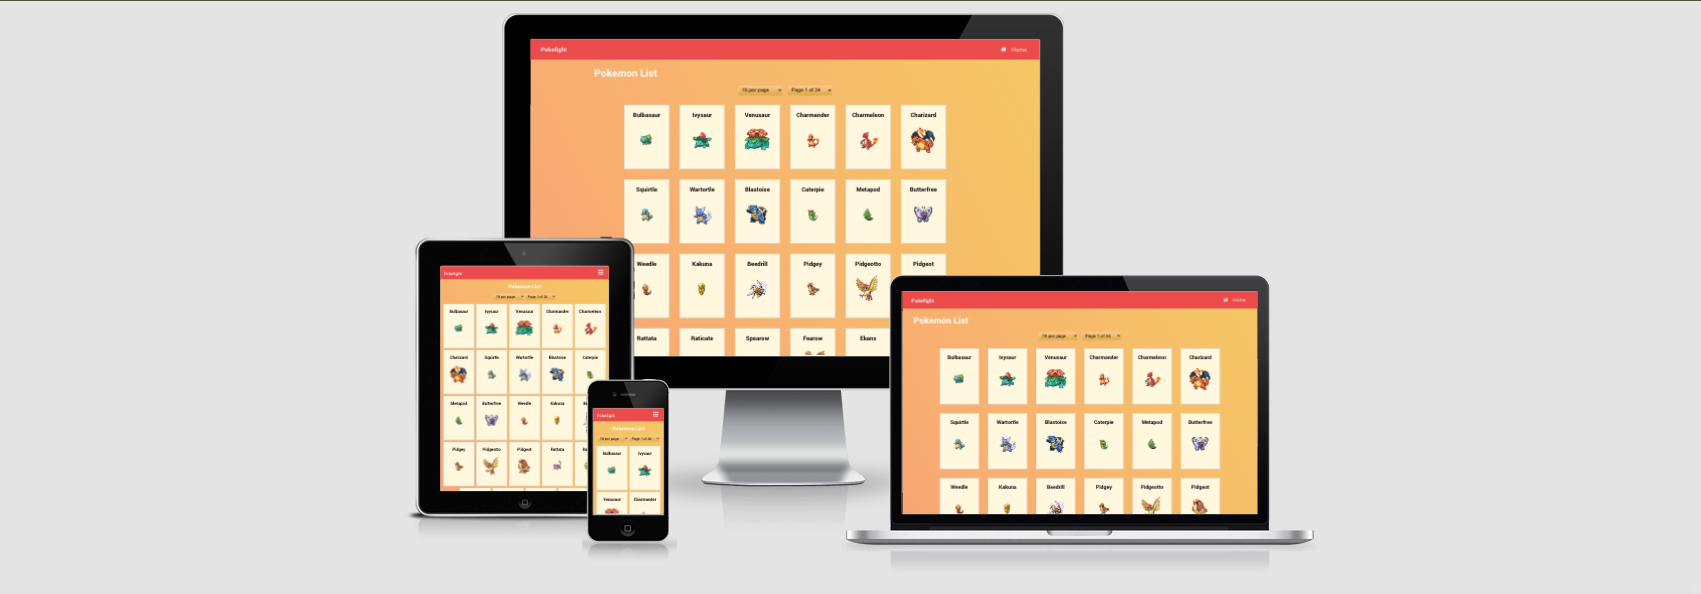
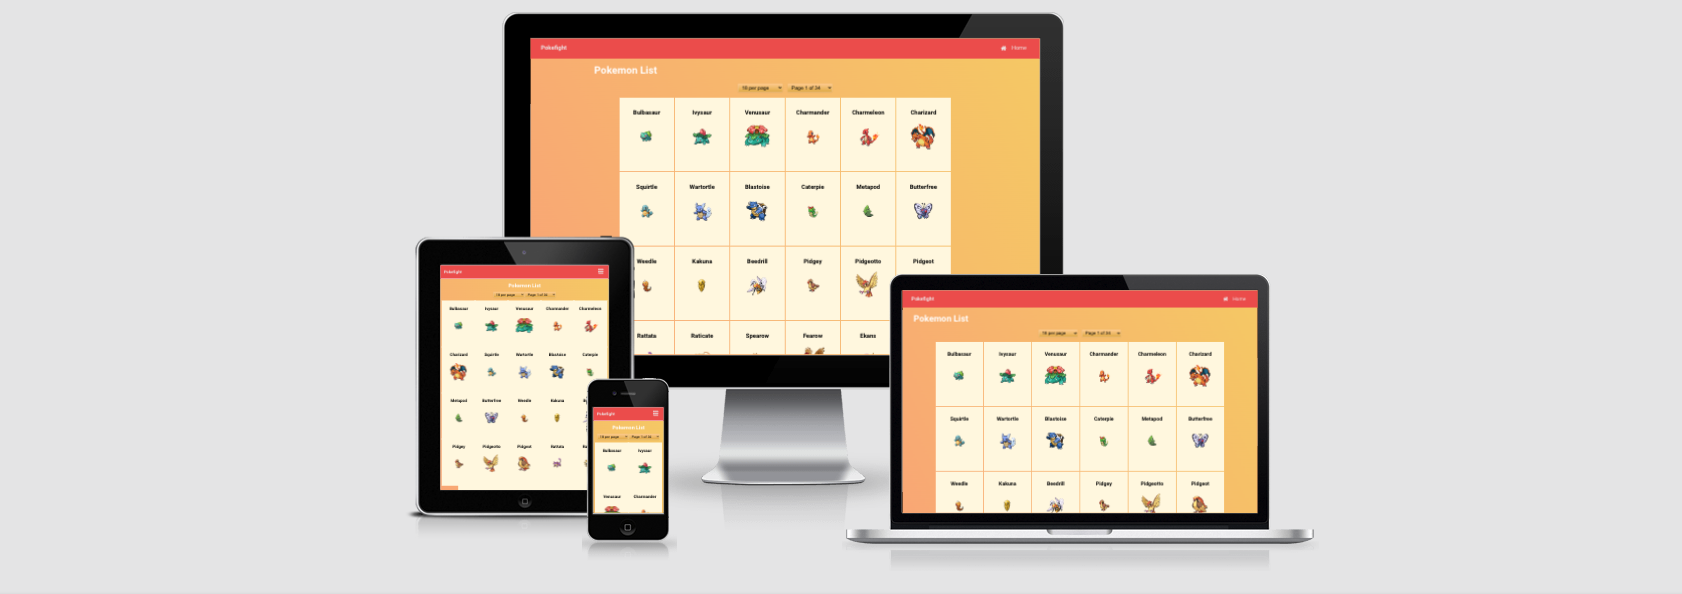
Update select css

Changed region(s): [[0.2473, 0.0, 0.7729, 0.9394]]

diff --git a/src/pages/Play.js b/src/pages/Play.js
@@ -1,0 +1,57 @@
+import React, { useState, useEffect } from 'react';
+import { useParams } from 'react-router-dom';
+
+import './Play.scss';
+
+
+
+const Play = () => {
+  const {id} = useParams();
+  const chosenPokemon = parseInt(id);
+  console.log('id', chosenPokemon);
+
+  const pokefightApiUrl = process.env.REACT_APP_GET_POKEMON_BY_ID;
+  const pImages = process.env.REACT_APP_POKEMON_IMAGES_URL;
+
+  const [playerPokemon, setPlayerPokemon] = useState(null);
+  const [pickedPokemon, setPickedPokemon] = useState(null);
+
+  // const url = `${pokefightApiUrl}${chosenPokemon}`;
+  // console.log('url', url);
+  // setPickedPokemon(url);
+
+  useEffect(() => {
+    const fetchPokemon = async () => {
+      const response = await fetch(`${pokefightApiUrl}${chosenPokemon}`);
+      const data = await response.json();
+      setPlayerPokemon(data);
+    };
+    fetchPokemon();
+  }, [pokefightApiUrl, chosenPokemon]);
+  console.log(playerPokemon)
+
+  return (
+    <div className="container play">
+      <h1>Play</h1>
+      {/* {allPokemon?.find(pokeman => pokeman.id === parseInt(id))} */}
+      {/* {allPokemon?.map(pokeman => pokeman.name.english + ' ')} */}
+      {/* {allPokemon?.filter(pokeman => pokeman.id === parseInt(id))} */}
+      {/* {playerPokemon} */}
+      {playerPokemon?.name.english}<br />
+      {playerPokemon?.type.map(type => type + ' ')}<br />
+      HP: {playerPokemon?.base.HP}<br />
+      Attack: {playerPokemon?.base.Attack}<br />
+      Defence: {playerPokemon?.base.Defense}<br />
+      Sp. Attack: {playerPokemon?.base['Sp. Attack']}<br />
+      Sp. Defence: {playerPokemon?.base['Sp. Defense']}<br />
+      Speed: {playerPokemon?.base.Speed}<br />
+      <img src={`${pImages}/${id}.png`} alt={playerPokemon?.name.english} />
+      {/* <img src={playerPokemon?.sprites.front_default} alt={playerPokemon?.name.english} /> */}
+
+
+
+    </div>
+  );
+}
+
+export default Play;

diff --git a/src/App.js b/src/App.js
@@ -2,6 +2,7 @@ import React, { useState, useEffect } from 'react';
 import { BrowserRouter as Router, Route, Routes } from 'react-router-dom';
 import axios from 'axios';
 import Home from './pages/Home';
+import Play from './pages/Play';
 import Navbar from './components/Navbar';
 
 function App() {
@@ -9,7 +10,7 @@ function App() {
 
   const [pokemon, setPokemon] = useState([]);
   const [currentPage, setCurrentPage] = useState(1);
-  const [perPage, setPerPage] = useState(24);
+  const [perPage, setPerPage] = useState(18);
   const [currentPageUrl, setCurrentPageUrl] = useState(pokefightApiUrl);
   const [totalPages, setTotalPages] = useState();
   const [nextPage, setNextPage] = useState();
@@ -84,6 +85,7 @@ function App() {
               />
             }
           />
+          <Route path='/play/:id' element={<Play />} />
           <Route path='*' element={<Home />} />
         </Routes>
       </main>

diff --git a/src/components/Navbar.js b/src/components/Navbar.js
@@ -1,6 +1,6 @@
 import { NavLink } from 'react-router-dom';
 import { useRef } from 'react';
-import { FaBars, FaTimes, FaHome } from 'react-icons/fa';
+import { FaBars, FaTimes, FaHome, FaGamepad } from 'react-icons/fa';
 import './Navbar.scss';
 
 const Navbar = () => {
@@ -19,6 +19,10 @@ const Navbar = () => {
         <NavLink className='nav-link' to='/' onClick={showNavbar}>
           <FaHome className='nav-icon' />
           Home
+        </NavLink>
+        <NavLink className='nav-link' to='/play'>
+          <FaGamepad className='nav-icon' />
+          Play
         </NavLink>
         <button className='nav-btn nav-close-btn' onClick={showNavbar}>
           <FaTimes />

diff --git a/src/components/Card.js b/src/components/Card.js
@@ -1,3 +1,4 @@
+import { Link, useNavigate } from 'react-router-dom';
 import './Card.scss';
 const Card = ({
   id,
@@ -11,6 +12,9 @@ const Card = ({
   SpDefense,
   Speed,
 }) => {
+
+  const navigate = useNavigate();
+
   return (
     <div className='card' key={id}>
       <div className='cardInner'>
@@ -43,6 +47,7 @@ const Card = ({
               <span className='base'>Speed:</span> {Speed}
               <br />
             </p>
+            <button onClick={() => navigate(`/play/${id}`)}>Select</button>
           </div>
         </div>
       </div>

diff --git a/src/components/PokemonList.scss b/src/components/PokemonList.scss
@@ -22,12 +22,10 @@
   cursor: pointer;
   line-height: 1.1;
   background-color: #fff;
-  background-image: linear-gradient(to top, #e4b143, rgb(253, 206, 145) 93%);
+  background-image: linear-gradient(to top, #e6c171, rgb(255, 225, 185) 93%);
   box-shadow: 0px 2px 4px 0px rgba(0, 0, 0, 0.1);
-  // background-image: linear-gradient(to top, #f9f9f9, #fff 33%);
   &:focus-visible {
     outline: none;
-    // box-shadow: 0 0 0 0.2rem rgba(0, 123, 255, 0.25);
   }
 }
 select + select {

diff --git a/src/pages/Play.scss b/src/pages/Play.scss
@@ -1,0 +1,1 @@
+@import '../styles/variables.scss';
